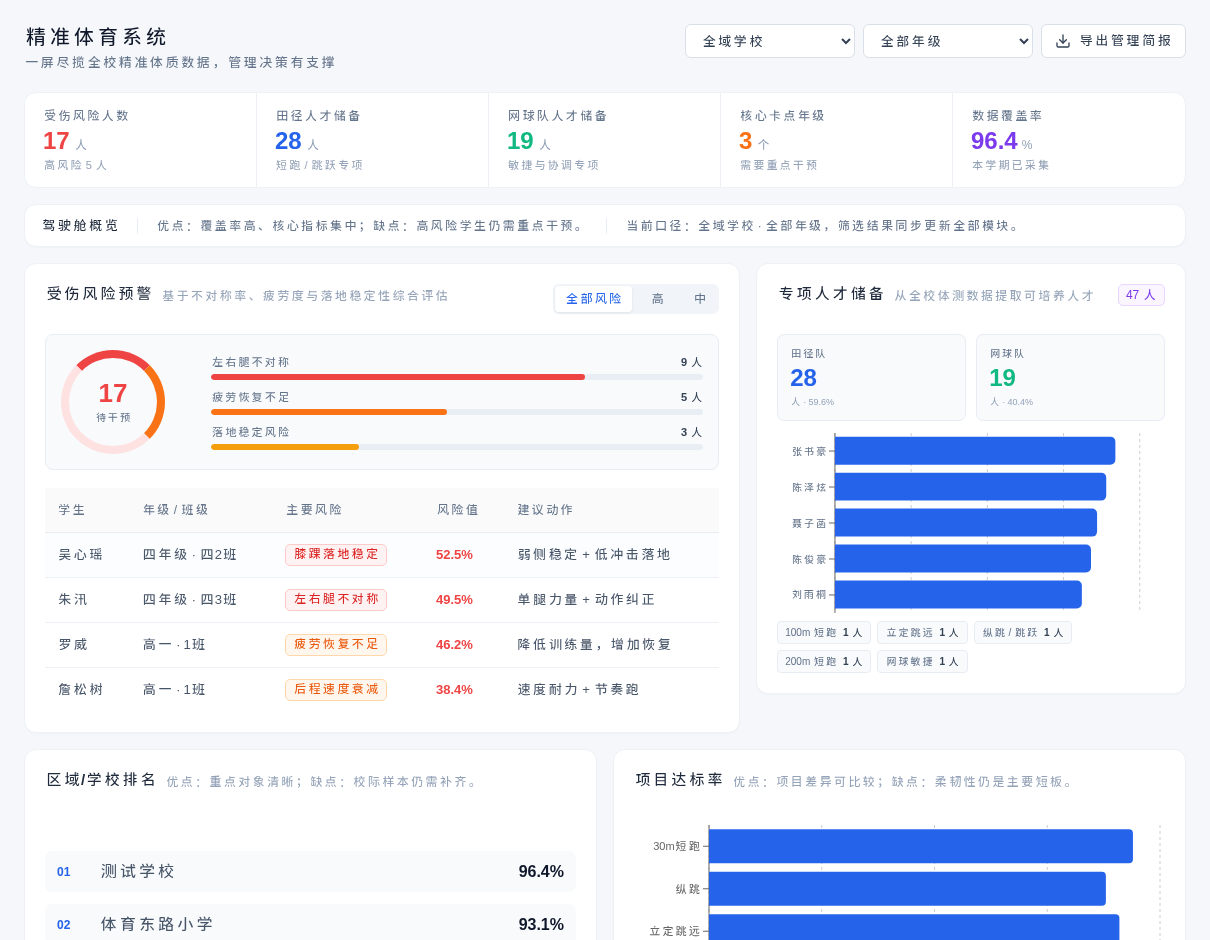
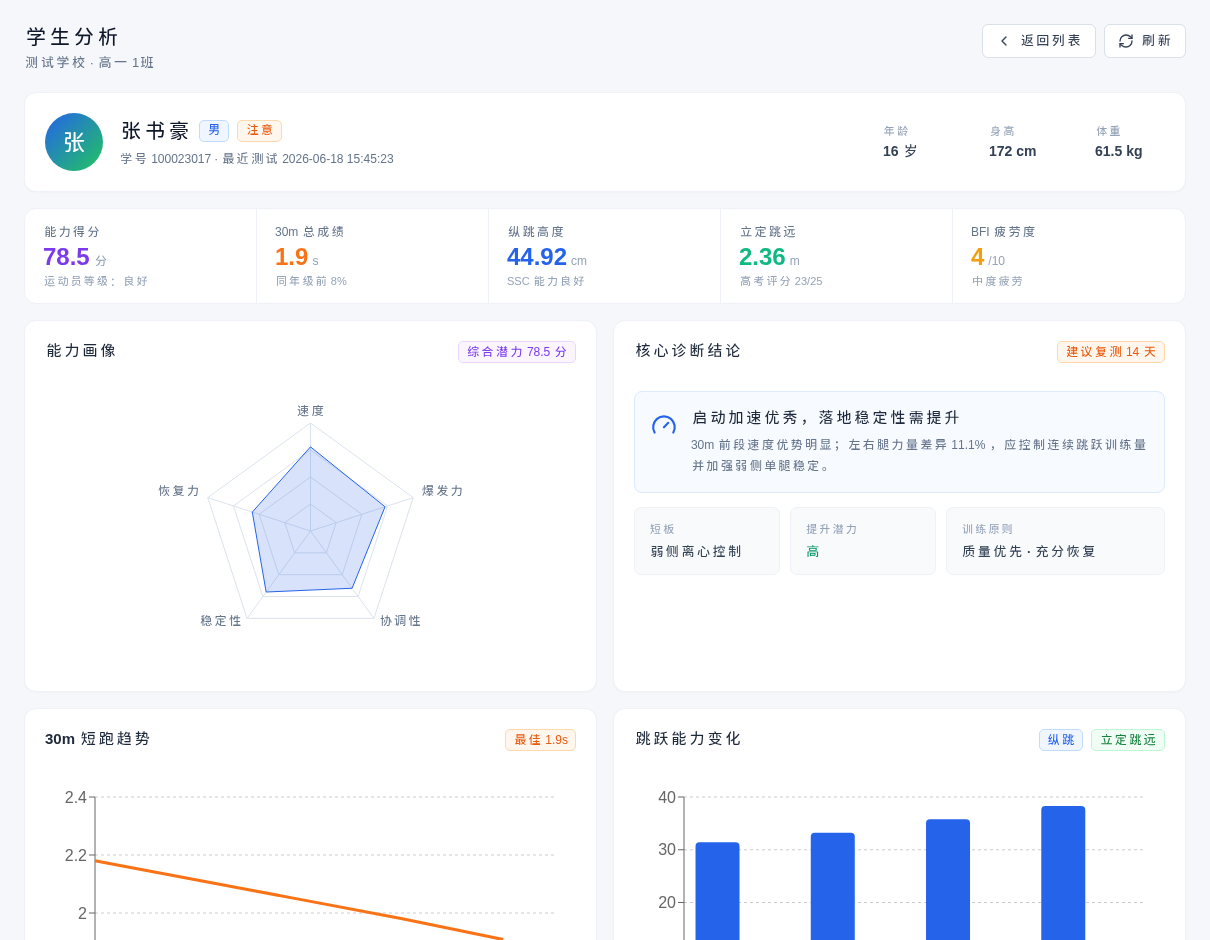
docs(prd): focus health report on student analysis

diff --git a/docs/prd/【PRD】潘英怡-20260829-B体质健康.md b/docs/prd/【PRD】潘英怡-20260829-B体质健康.md
@@ -7,236 +7,249 @@
 | 版本号 | 修订日期 | 修订内容 | 修订者 |
 |---|---|---|---|
 | V1.0 | 2026-08-29 | 基于生产网站现有能力形成初稿 | 潘英怡 |
-| V1.1 | 2026-08-29 | 补充四个已实现功能的页面组成、业务规则、交互与输出 | 潘英怡 |
+| V1.1 | 2026-08-29 | 补充已实现功能的详细说明 | 潘英怡 |
+| V1.2 | 2026-08-29 | 调整范围为单一功能“学生分析”并重新生成文档 | 潘英怡 |
 
 ## 2. 相关链接
 
 | 事项 | 内容 |
 |---|---|
 | 产品需求池 | 待补充 |
-| 产品环境 | https://sports.pyyi.work/ |
+| 产品环境 | https://sports.pyyi.work/students/100023017 |
 | 设计稿 | 以生产网站截图为准 |
 
 ## 3. 需求概述
 
 ### 背景
 
-学校体质健康管理通常包含群体数据汇总、异常风险发现、学生个体分析和周期趋势评估。若这些信息分散在不同表格或单次测试报告中，管理者难以及时识别重点人群，教师也难以将测试结果转化为具体干预动作。
+常规体测结果通常以单项成绩或静态表格呈现，体育教师需要自行判断学生的优势、短板、风险和训练方向。由于学生基础信息、测试成绩、能力结构、历史趋势和训练建议缺少统一视图，个体分析过程耗时，且难以形成连续、可复查的培养记录。
 
 ### 核心需求
 
-系统围绕“区域总览—风险发现—个体诊断—趋势研究”形成 B 体质健康业务链路，通过精准体育驾驶舱、风险管理、学生分析和科研分析四个页面展示当前已完成能力，并支持筛选、建议生成、数据导出和研究项目管理。
+当前 B 体质健康仅描述已实现的“学生分析”功能。系统将学生档案、五项关键指标、能力画像、核心诊断、成绩趋势和四周运动处方集中在一个页面中，并提供数据刷新、返回列表和加入训练处方等操作，使教师能够从一次体测结果快速形成个体化体育训练参考。
 
 ### 预期效果
 
-区域管理者和学校体育教师能够快速掌握整体达标水平、定位风险学生、查看个人能力短板，并通过周期趋势判断干预效果，为分层教学、训练处方和管理决策提供数据依据。
+体育教师进入学生详情后，可在单页内了解学生当前身体与运动能力状态，识别主要优势和待提升环节，查看多次测试变化，并将诊断建议衔接到训练处方流程，减少跨页面查找和人工整理成本。
 
 ## 4. 需求背景与目标
 
 ### 4.1 当前业务目标
 
-1. 提供区域与学校体质健康总览，集中呈现覆盖率、达标率和核心卡点。
-2. 识别疲劳、不对称和落地稳定等风险，为复核与干预提供名单。
-3. 形成学生个人运动能力诊断，关联风险、成绩趋势和训练建议。
-4. 支持体质变化趋势与年级对比，为科研评估和管理复盘提供材料。
+1. 建立学生个人体质与运动能力的统一分析档案。
+2. 将单项测试成绩转化为速度、爆发力、协调性、稳定性和恢复力等能力画像。
+3. 结合风险与成绩形成可解释的核心诊断结论。
+4. 展示阶段变化，并提供可进入训练处方流程的个体训练建议。
 
 ### 4.2 用户角色
 
 | 用户角色 | 核心诉求 |
 |---|---|
-| 区域教育管理者 | 查看区域整体表现、学校差异和优先管理事项 |
-| 学校管理者 | 定位本校年级短板与重点风险学生 |
-| 体育教师 | 查看个体诊断并形成复测或训练建议 |
-| 教研人员 | 观察周期趋势、导出数据并管理研究课题 |
+| 体育教师 | 快速理解学生优势、短板和训练方向 |
+| 校队教练 | 判断学生运动潜力、训练适应和风险状态 |
+| 学校管理者 | 查看授权数据域内学生的个人分析结果 |
+| 学生及家长 | 在教师解释下了解个人成长变化和训练建议 |
 
 ## 5. 需求范围与分工
 
 ### 5.1 当前已完成范围
 
-| 模块 | 当前能力 | 优先级 |
-|---|---|---|
-| 精准体育系统 | KPI、风险预警、人才储备、学校排名、达标率、趋势与管理建议 | P0 |
-| 风险管理 | 疲劳值与左右腿不对称双维风险筛查 | P0 |
-| 学生分析 | 个体能力指标、风险解释、趋势和运动处方入口 | P0 |
-| 科研分析 | 体质趋势、年级对比、数据导出和课题管理 | P1 |
+| 一级功能 | 页面区块 | 当前能力 | 优先级 |
+|---|---|---|---|
+| 学生分析 | 学生基础档案 | 展示身份、班级、测试时间和身体基础信息 | P0 |
+| 学生分析 | 关键指标 | 展示能力得分、短跑、纵跳、立定跳远和疲劳度 | P0 |
+| 学生分析 | 能力画像 | 展示五维运动能力结构 | P0 |
+| 学生分析 | 核心诊断 | 汇总优势、短板、风险和训练原则 | P0 |
+| 学生分析 | 成长趋势 | 展示多次短跑与跳跃能力变化 | P0 |
+| 学生分析 | 运动处方 | 展示四周训练建议并衔接训练处方管理 | P0 |
 
 ### 5.2 需求分工
 
 | 角色 | 负责人 | 职责 |
 |---|---|---|
-| 产品经理 | 潘英怡 | 业务范围、规则和验收标准 |
-| UI 设计师 | 待分配 | 页面信息层级与交互规范 |
-| 前端开发 | 待分配 | 页面展示、筛选和导出交互 |
-| 后端开发 | 待分配 | 后续真实数据、权限和持久化服务 |
-| 测试工程师 | 待分配 | 页面、数据口径和业务链路验证 |
+| 产品经理 | 潘英怡 | 学生分析范围、业务规则和验收标准 |
+| UI 设计师 | 待分配 | 个人档案、图表和诊断信息层级 |
+| 前端开发 | 待分配 | 学生分析页面和交互实现 |
+| 后端开发 | 待分配 | 后续真实学生、测试、风险和历史数据服务 |
+| 测试工程师 | 待分配 | 页面字段、图表、权限和处方链路验证 |
 
 ## 6. 业务流程
 
 ```text
-体测数据汇总
-  → 区域/学校体质总览
-  → 识别风险与年级短板
-  → 查看学生个体分析
-  → 生成复测或训练建议
-  → 通过科研趋势评估阶段变化
+从学生列表选择学生
+  → 打开学生分析档案
+  → 查看基础信息和关键指标
+  → 阅读能力画像与核心诊断
+  → 对比历史测试趋势
+  → 查看四周运动处方建议
+  → 加入训练处方管理流程
 ```
 
 ## 7. 功能详细说明
 
-### 7.1 精准体育系统
+### 7.1 学生基础档案
 
-**功能定位：** 作为体质健康管理驾驶舱，集中展示整体指标、重点风险和管理优先级。
-
-**当前能力：**
-
-1. **统一筛选与总览指标：** 支持按学校、年级切换数据范围，展示受伤风险人数、田径与网球人才储备、核心卡点年级、数据覆盖率，并支持导出管理简报。
-2. **受伤风险预警：** 汇总左右腿不对称、疲劳恢复不足、落地稳定风险三类问题；支持高、中风险切换，并展示学生、班级、风险值与建议动作。
-3. **专项人才储备：** 展示田径队、网球队人才规模、潜力排行和专项标签，使管理者同时看到健康风险与可培养资源。
-4. **区域与项目对比：** 展示学校排名、30m 短跑、纵跳、立定跳远、柔韧性等项目达标率，定位学校和项目差异。
-5. **群体趋势分析：** 通过年级达标趋势、男女生比例和年级核心卡点表，呈现样本量、达标率、影响人数及改善状态。
-6. **管理决策提示：** 将发现的问题整理为“立即、本周、规划”三级动作，支持按年级生成专项干预建议和校级报告。
-
-| 字段 | 类型 | 必填 | 说明 |
-|---|---|---|---|
-| 学校 | 枚举 | 是 | 当前数据范围 |
-| 年级 | 枚举 | 是 | 当前年级范围 |
-| 风险人数 | 数值 | 是 | 当前口径下待干预人数 |
-| 数据覆盖率 | 百分比 | 是 | 已采集数据覆盖情况 |
-| 管理建议 | 文本 | 是 | 立即、本周、规划三级建议 |
-
-**页面输出：** 区域/学校体质概览、重点风险名单、专项人才储备、年级短板及分级管理建议。
-
-**交互说明：**
-
-- 学校和年级筛选统一影响页面指标口径。
-- 风险分段按钮切换当前风险名单。
-- “生成建议”形成对应年级的专项干预提示。
-- “导出管理简报”和“生成校级报告”提供汇报材料出口。
-
-**异常处理：** 筛选无匹配数据时保留模块结构并显示“暂无数据”，不得沿用其他范围的数据。
-
-![图 B-1 体质健康总览与风险决策](./assets/b-health/B-01-core.png)
-
-*图 B-1：集中呈现体质指标、风险名单、年级短板和管理建议。完整页面见 [B-01-full.png](./assets/b-health/B-01-full.png)。*
-
-### 7.2 风险管理
-
-**功能定位：** 从疲劳恢复和左右腿不对称两个维度筛查需要重点复核的学生。
+**功能定位：** 确认当前分析对象和最近一次测试背景，避免不同学生或不同批次数据混淆。
 
 **当前能力：**
 
-1. **风险总览：** 汇总当前数据范围内的风险人数及高风险数量，形成管理入口。
-2. **疲劳风险识别：** 使用 BFI 疲劳值呈现学生恢复状态，支持定位训练负荷或恢复不足对象。
-3. **身体不对称识别：** 展示左右腿不对称率，辅助发现弱侧力量、动作控制和稳定性问题。
-4. **风险名单管理：** 列出学生、学校、年级、疲劳值、不对称率和风险等级，支持学校筛选及名单刷新。
-5. **干预参考：** 依据风险表现提供降低训练量、增加恢复、弱侧训练或动作纠正等方向性建议。
-
-**业务规则：** 风险等级用于体育训练管理和复测排序，不构成疾病判断、医学诊断或治疗建议。
+1. 展示学生姓名、头像首字、学号和性别。
+2. 根据疲劳情况显示“状态良好”“注意”或“高风险”标签。
+3. 展示所属学校、年级、班级和最近测试时间。
+4. 展示年龄、身高和体重等身体基础信息。
+5. 提供“返回列表”和“刷新”操作。
 
 | 字段 | 类型 | 必填 | 说明 |
 |---|---|---|---|
-| BFI 疲劳值 | 数值 | 是 | 疲劳风险参考指标 |
-| 不对称率 | 百分比 | 是 | 左右侧能力差异 |
-| 风险等级 | 枚举 | 是 | 高、中、低风险 |
-| 建议动作 | 文本 | 是 | 复核、恢复或动作纠正建议 |
+| 学号 | 文本 | 是 | 学生唯一标识 |
+| 姓名 | 文本 | 是 | 当前分析对象 |
+| 性别 | 枚举 | 是 | 学生性别 |
+| 学校/年级/班级 | 文本 | 是 | 学生组织归属 |
+| 最近测试时间 | 日期时间 | 是 | 当前分析数据的最近来源时间 |
+| 年龄/身高/体重 | 数值 | 是 | 身体基础信息 |
+| 状态标签 | 枚举 | 是 | 状态良好、注意或高风险 |
 
-**页面输出：** 风险学生名单、风险指标依据和建议干预方向。
+**交互说明：** 点击“返回列表”返回学生信息页；点击“刷新”重新加载当前学生分析结果并显示操作反馈。
 
-**交互说明：** 切换学校后刷新对应名单；点击刷新重新加载当前范围结果；用户可从风险名单进一步进入学生个人分析。
+### 7.2 关键体测指标
 
-**异常处理：** 缺少有效测试数据时不计算风险结论；单项缺失时需明确显示缺失状态，不以默认值替代。
-
-![图 B-2 双维风险筛查](./assets/b-health/B-02-core.png)
-
-*图 B-2：通过疲劳与不对称指标定位重点复核对象。完整页面见 [B-02-full.png](./assets/b-health/B-02-full.png)。*
-
-### 7.3 学生分析
-
-**功能定位：** 将学生基础信息、测试表现、风险和训练建议汇总为个人分析档案。
+**功能定位：** 用一组核心数字概括学生当前运动表现和疲劳状态。
 
 **当前能力：**
 
-1. **学生基础档案：** 展示学生姓名、学号、性别、年龄、身高、体重、学校、年级班级和最近测试时间。
-2. **关键测试结果：** 展示能力总分、30m 短跑、纵跳、立定跳远和 BFI 疲劳度，并给出同年级位置或状态提示。
-3. **能力画像：** 使用雷达图呈现速度、爆发力、协调性、稳定性和恢复力，帮助教师理解能力结构，而非只看单项成绩。
-4. **核心诊断结论：** 结合测试结果说明优势、待提升环节、训练原则和建议复测周期。
-5. **成长趋势：** 展示多次短跑成绩及纵跳、立定跳远变化，观察阶段进步或波动。
-6. **运动处方：** 根据当前诊断展示热身、训练动作、组数间歇和放松要求，并支持加入训练处方。
+1. **能力得分：** 展示综合潜力分及“良好”等级提示。
+2. **30m 总成绩：** 展示短跑成绩及同年级位置说明。
+3. **纵跳高度：** 展示下肢快速伸缩复合能力表现。
+4. **立定跳远：** 展示水平爆发力成绩和评分提示。
+5. **BFI 疲劳度：** 以 0—10 数值及颜色显示当前疲劳程度。
 
 | 字段 | 类型 | 必填 | 说明 |
 |---|---|---|---|
-| 学生标识 | 文本 | 是 | 学生唯一标识 |
-| 测试成绩 | 数值 | 是 | 各测试项目结果 |
-| 能力评分 | 数值 | 是 | 速度、爆发等维度表现 |
-| 训练建议 | 文本 | 是 | 当前诊断对应的训练方向 |
+| 能力得分 | 数值 | 是 | 综合潜力参考分 |
+| 30m 成绩 | 秒 | 是 | 速度能力指标 |
+| 纵跳高度 | 厘米 | 是 | 垂直爆发力指标 |
+| 立定跳远 | 米 | 是 | 水平爆发力指标 |
+| BFI 疲劳度 | 0—10 数值 | 是 | 疲劳恢复参考指标 |
 
-**页面输出：** 学生个人能力档案、诊断摘要、趋势结果和四周训练建议。
+**业务规则：** 单项成绩与提示用于体育教学和训练参考，不得仅依据单次结果作出长期能力结论。
 
-**交互说明：** 支持返回学生列表、刷新分析数据，并将当前建议带入训练处方管理流程。
+### 7.3 能力画像
 
-**异常处理：** 测试次数不足时仅展示已有结果并提示趋势样本不足；个人信息和健康相关指标仅向授权数据域用户展示。
+**功能定位：** 将分散的测试指标转化为便于教师理解的多维能力结构。
 
-![图 B-3 学生个人体质分析](./assets/b-health/B-03-core.png)
+**当前能力：** 使用雷达图同时展示速度、爆发力、协调性、稳定性和恢复力，并在标题区域显示综合潜力分。
 
-*图 B-3：从群体风险下钻到学生个人能力与处方建议。完整页面见 [B-03-full.png](./assets/b-health/B-03-full.png)。*
+| 能力维度 | 当前含义 |
+|---|---|
+| 速度 | 短距离启动与加速表现 |
+| 爆发力 | 纵跳和立定跳远等快速发力表现 |
+| 协调性 | 多动作配合和身体控制表现 |
+| 稳定性 | 左右侧对称及落地控制参考 |
+| 恢复力 | 结合疲劳度形成的恢复状态参考 |
 
-### 7.4 科研分析
+**页面输出：** 一张五维能力雷达图，用于识别突出能力和相对薄弱维度。
 
-**功能定位：** 对体质健康数据进行周期追踪、年级比较和研究项目管理。
+**异常处理：** 任一维度缺少有效来源时应显示数据不足，不应使用默认高分补齐画像。
+
+### 7.4 核心诊断结论
+
+**功能定位：** 将指标和能力画像转化为一段可以直接阅读的分析结论。
 
 **当前能力：**
 
-1. **科研指标总览：** 展示体质达标率、优良率、覆盖样本、跟踪周期和进行中课题数量。
-2. **成长趋势分析：** 以周期折线展示达标率与优良率变化，支持周期、班级、年级等比较口径选择。
-3. **年级效果比较：** 对比各年级达标率和优良率，观察干预前后或不同群体的表现差异。
-4. **核心短板分布：** 汇总速度耐力、下肢爆发、柔韧性和协调性等维度，标识优先干预方向。
-5. **课题全过程管理：** 展示课题编号、名称、负责人、样本量、阶段、截止时间和完成进度，并支持新建课题档案。
-6. **科研数据出口：** 支持导出周期、达标率、优良率、短跑与纵跳等结构化数据，供后续统计和材料编制。
+1. 展示主要优势，例如启动加速表现突出。
+2. 指出待提升问题，例如落地稳定性或弱侧离心控制不足。
+3. 引用左右腿力量差异等指标解释判断依据。
+4. 展示短板、提升潜力和训练原则三个结构化结论。
+5. 给出建议复测周期，当前演示页面为 14 天。
 
 | 字段 | 类型 | 必填 | 说明 |
 |---|---|---|---|
-| 达标率 | 百分比 | 是 | 当前周期体质达标比例 |
-| 优良率 | 百分比 | 是 | 当前周期优良比例 |
-| 跟踪周期 | 数值 | 是 | 已纳入比较的周期数 |
-| 研究项目 | 对象 | 否 | 课题名称、负责人、样本和进度 |
+| 核心结论 | 文本 | 是 | 当前优势和主要问题 |
+| 判断依据 | 文本/数值 | 是 | 支撑结论的测试指标 |
+| 主要短板 | 文本 | 是 | 优先改善方向 |
+| 提升潜力 | 枚举 | 是 | 当前提升空间判断 |
+| 训练原则 | 文本 | 是 | 负荷与动作执行原则 |
+| 建议复测周期 | 天数 | 是 | 下一次复测建议 |
 
-**页面输出：** 学校体质研究概览、周期趋势、年级比较、短板排序和课题进度。
+**业务边界：** 核心诊断属于运动能力与体育训练分析，不构成医疗诊断、伤病确认或治疗意见。
 
-**交互说明：** 用户可切换比较口径、导出科研数据和新建课题；创建课题时填写名称、负责人、样本量和计划结题日期。
+### 7.5 成长趋势
 
-**异常处理：** 周期或样本不足时不得形成确定性效果结论；导出数据需保持当前筛选口径和指标定义一致。
+**功能定位：** 通过多次测试结果观察学生阶段变化，避免只依据单次成绩判断。
 
-![图 B-4 体质趋势与科研评估](./assets/b-health/B-04-core.png)
+**当前能力：**
 
-*图 B-4：通过周期趋势、年级对比和课题档案支撑教研评估。完整页面见 [B-04-full.png](./assets/b-health/B-04-full.png)。*
+1. 使用折线图展示四次 30m 短跑成绩变化，并标注当前最佳成绩。
+2. 使用分组柱状图展示四次纵跳和立定跳远变化。
+3. 图表支持悬停查看具体测试值。
+4. 短跑成绩按“用时越低越好”解释，跳跃成绩按“数值越高越好”解释。
+
+| 字段 | 类型 | 必填 | 说明 |
+|---|---|---|---|
+| 测试序次 | 文本 | 是 | 第 1 次至第 4 次 |
+| 短跑成绩 | 秒 | 否 | 30m 测试结果 |
+| 纵跳成绩 | 厘米 | 否 | 纵跳测试结果 |
+| 立定跳远成绩 | 米 | 否 | 立定跳远测试结果 |
+
+**异常处理：** 少于两次有效测试时不绘制趋势结论，只展示现有成绩并提示样本不足。
+
+### 7.6 运动处方
+
+**功能定位：** 将学生诊断结果转化为可执行的四周训练建议，并衔接训练处方管理。
+
+**当前能力：**
+
+1. 展示动态活动与跑步技术练习等热身要求。
+2. 展示弱侧单腿蹲、低栏连续跳、10m 加速跑等训练动作。
+3. 展示建议组数、组间休息和恢复要求。
+4. 展示臀中肌与小腿后侧拉伸等放松要求。
+5. 点击“加入训练处方”后创建当前学生的处方草稿并进入训练处方页面。
+
+| 字段 | 类型 | 必填 | 说明 |
+|---|---|---|---|
+| 热身要求 | 文本 | 是 | 训练前准备内容 |
+| 训练动作 | 文本列表 | 是 | 当前阶段建议动作 |
+| 组数与间歇 | 文本 | 是 | 训练量和恢复间隔 |
+| 放松要求 | 文本 | 是 | 训练后恢复内容 |
+| 处方周期 | 文本 | 是 | 当前建议为四周 |
+
+**业务规则：** 处方为根据当前演示诊断生成的训练建议草稿，正式执行前需由体育教师或教练确认。
+
+**异常处理：** 学生处于高风险或数据不完整状态时，应优先复核，不应直接生成高负荷训练安排。
+
+![图 B-1 学生个人体质分析](./assets/b-health/B-01-core.png)
+
+*图 B-1：集中展示学生档案、关键指标、能力画像、核心诊断、成长趋势和运动处方。完整页面见 [B-01-full.png](./assets/b-health/B-01-full.png)。*
 
 ## 8. 数据埋点建议
 
 | 功能 | 页面 | 事件 | 终端 |
 |---|---|---|---|
-| 查看体质驾驶舱 | /precision | page_view_precision | H5 |
-| 切换学校/年级 | /precision | filter_change_health_scope | H5 |
-| 查看风险名单 | /risk | page_view_risk | H5 |
-| 创建训练处方 | /students/:id | btn_click_create_prescription | H5 |
-| 导出科研数据 | /research | btn_click_export_research | H5 |
+| 查看学生分析 | /students/:id | page_view_student_analysis | H5 |
+| 刷新分析数据 | /students/:id | btn_click_refresh_analysis | H5 |
+| 查看趋势图 | /students/:id | chart_expose_student_trend | H5 |
+| 加入训练处方 | /students/:id | btn_click_create_prescription | H5 |
+| 返回学生列表 | /students/:id | btn_click_back_student_list | H5 |
 
 ## 9. 验收标准
 
-1. 四个页面可从生产环境正常访问，页面核心内容与截图一致。
-2. 精准体育系统能够展示总体指标、风险名单、趋势和管理建议。
-3. 风险名单可表达疲劳与不对称两个风险维度。
-4. 学生分析能够从个体数据进入训练处方业务流程。
-5. 科研分析能够展示周期趋势并支持数据导出和课题创建。
-6. 所有演示指标均明确标注为演示数据，不作为真实业务结论。
+1. 用户可从学生列表进入指定学生分析页，并能返回列表。
+2. 页面能够展示学生基础档案、五项关键指标和状态标签。
+3. 页面能够展示五维能力画像和结构化核心诊断。
+4. 页面能够展示短跑、纵跳和立定跳远的多次测试变化。
+5. 页面能够展示热身、动作、组数间歇和放松建议。
+6. 点击“加入训练处方”可进入训练处方流程并获得成功反馈。
+7. 所有指标明确为演示数据；诊断和处方明确为体育训练参考。
 
 ## 10. 下一阶段规划（简要）
 
-- **P0：** 接入真实体测数据、多级数据权限和干预复测闭环。
-- **P1：** 增加历史报告、指标口径版本和长期趋势留存。
-- **P2：** 在数据合规前提下增加高级分析和跨校比较。
+- **P0：** 接入真实学生档案、测试历史、权限控制和数据口径。
+- **P1：** 增加诊断规则版本、处方执行记录和复测效果对比。
+- **P2：** 增加教师确认、家长查看和学生成长报告能力。
 
 ## 11. 附录
 
 - 截图时间：2026-08-29
-- 截图环境：https://sports.pyyi.work/
+- 截图环境：https://sports.pyyi.work/students/100023017
 - 截图尺寸：桌面端 1440 × 1000，完整页面截图采用全页高度。

diff --git a/CONTEXT.md b/CONTEXT.md
@@ -2,7 +2,7 @@
 
 ## B 体质健康
 
-围绕群体体质监测、风险识别、学生个体诊断和发展趋势研究形成的健康管理业务域。其目标是发现问题、提供干预依据并跟踪体质变化，不等同于医疗诊断。
+当前阶段以学生分析为核心，通过学生档案、体测指标、能力画像、诊断结论、成长趋势和运动处方，形成面向个体的体质健康分析业务域。其输出用于体育教学和训练参考，不等同于医疗诊断。
 
 ## C 体育特色
 
